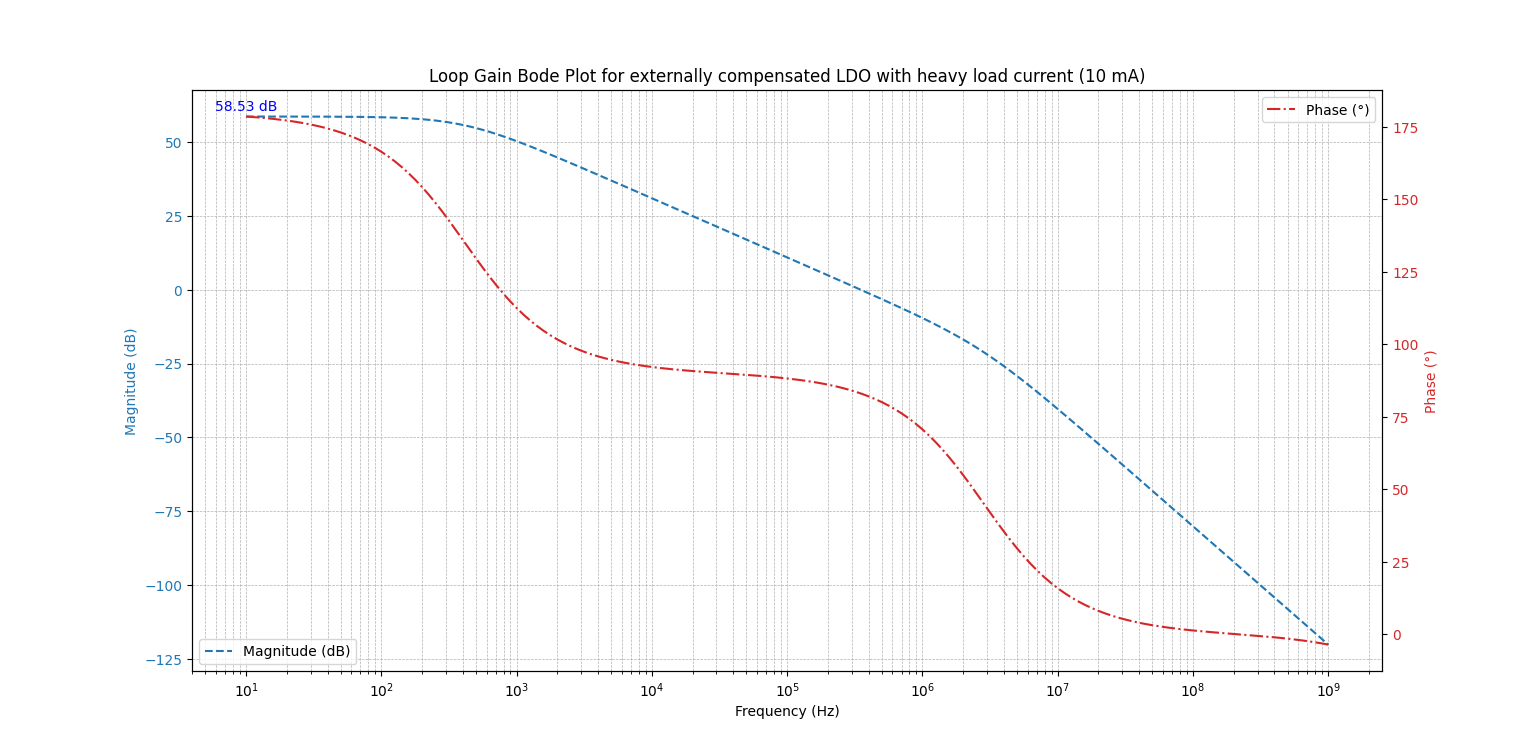
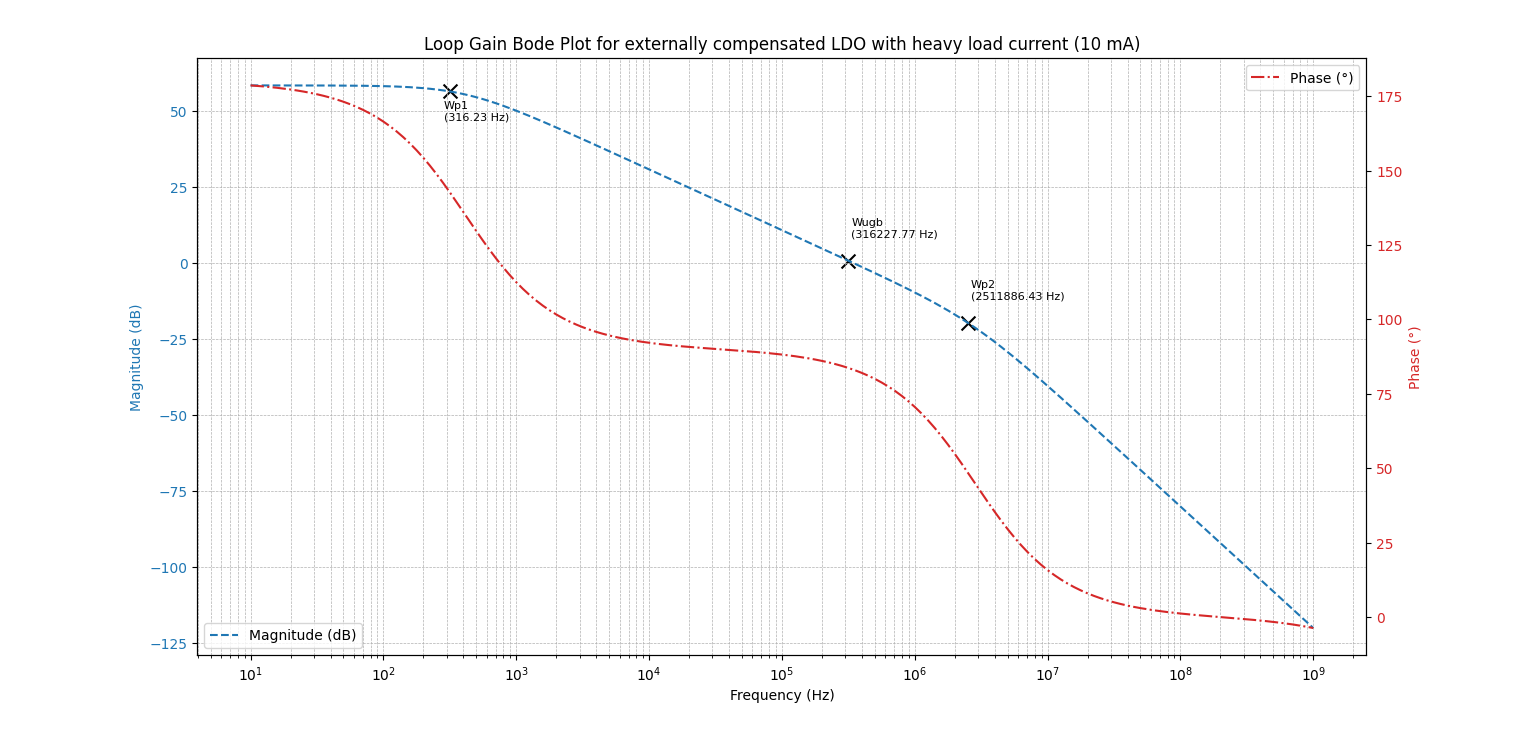
Update repo

diff --git a/scripts/bode_poles.py b/scripts/bode_poles.py
@@ -3,7 +3,7 @@ import matplotlib.pyplot as plt
 import numpy as np
 
 # File path to the CSV file
-csv_file_path = "Repo\Plots\LDO_45nm_ext_90_LG_l.txt"
+csv_file_path = "Plots\LDO_45nm_ext_90_LG_h.txt"
 
 # Initialize lists for storing frequency, magnitude, and phase
 frequency = []
@@ -28,7 +28,7 @@ with open(csv_file_path, 'r') as file:
         phase.append(ph)
 
 # User-specified pole frequencies and their labels
-pole_frequencies = [63.67, 63670, 13094861]  # Example pole frequencies (can be updated)
+pole_frequencies = [318.31, 318310, 2633000]  # Example pole frequencies (can be updated)
 pole_labels = ['Wp1', 'Wugb', 'Wp2']  # Labels for the poles
 
 # Find and annotate poles
@@ -48,12 +48,17 @@ ax1.tick_params(axis='y', labelcolor=color)
 ax1.grid(which='both', linestyle='--', linewidth=0.5)
 ax1.legend(loc='lower left')
 
-# Annotate poles with a cross (X) and dynamically offset text labels
+# Annotate poles with a cross (X) and customized offsets
 for (freq, mag), label in zip(pole_points, pole_labels):
     ax1.scatter(freq, mag, color='black', marker='x', s=100)
-    # Dynamically offset the text: above and slightly to the side
-    x_offset = 0.05 * freq  # Slight horizontal offset proportional to frequency
-    y_offset = 7  # Fixed vertical offset above the marker
+    if label == 'Wp1':
+        # Custom placement for Wp1
+        x_offset = -0.1 * freq  # Horizontal offset for Wp1
+        y_offset = -10  # Vertical offset for Wp1
+    else:
+        # Default placement for other poles
+        x_offset = 0.05 * freq
+        y_offset = 7
     ax1.text(freq + x_offset, mag + y_offset, f'{label}\n({freq:.2f} Hz)', 
              fontsize=8, color='black', ha='left', va='bottom')
 
@@ -66,6 +71,6 @@ ax2.tick_params(axis='y', labelcolor=color)
 ax2.legend(loc='upper right')
 
 # Final adjustments
-plt.title('Loop Gain Bode Plot for externally compensated LDO with light load current (2 mA)')
+plt.title('Loop Gain Bode Plot for externally compensated LDO with heavy load current (10 mA)')
 plt.tight_layout()  # Adjust layout to prevent clipping
 plt.show()

diff --git a/README.md b/README.md
@@ -10,43 +10,75 @@ When the voltage difference between the input and output falls below the dropout
 
 <img src="Figures/OTA.png" alt="Step 1.2" width="800"/><br>
 
-# Tech Plots for gpdk045
+# Externally Compensated LDO Regulator
+
+## LTSpice Schematic
+
+<img src="Schematics/45nm_ext_CL.png" alt="Step 1.2" width="800"/><br>
+
+## Calculation of transistor sizes using the gm/Id methodology
+
+## Simulation Outputs
+
+### Loop Gain
+
+<img src="Graphs/45_ext_LG_h.png" alt="Step 1.2" width="800"/><br>
+
+The locations of the two poles and the unity gain frequency is as follows,
+
+| **Pole** | **Frequency** |
+|----------|---------------|
+| fp1      | 316.23 Hz     |
+| f_ugb    | 316.23 KHz    |
+| fp2      | 2.51 MHz      |
+
+### Open Loop PSRR
+
+<img src="Graphs/45_ext_OL_h.png" alt="Step 1.2" width="800"/><br>
+
+### Closed Loop PSRR
+
+<img src="Graphs/45_ext_CL_h.png" alt="Step 1.2" width="800"/><br>
+
+# Tech Plots
+
+## Tech Plots for gpdk045
 
 Below are the generated technology plots of three different FOMs for the gpdk045 PDK.
 
-## nmos
+### nmos
 
-### ngm_ro vs ngm_id
+#### ngm_ro vs ngm_id
 <img src="Screenshots/nmos_gmro.png" alt="Step 1.2" width="800"/><br>
 
-### nid_w vs ngm_id
+#### nid_w vs ngm_id
 <img src="Screenshots/nmos_idw.png" alt="Step 1.2" width="800"/><br>
 
-### nft vs ngm_id
+#### nft vs ngm_id
 <img src="Screenshots/nmos_ft.png" alt="Step 1.2" width="800"/><br>
 
-# Tech Plots for ptm_045_hp
+## Tech Plots for ptm_045_hp
 
 Below are the generated technology plots of three different FOMs for the ptm_045_hp PDK.
 
-## pmos
+### pmos
 
-### pgm_ro vs pgm_id
+#### pgm_ro vs pgm_id
 <img src="Screenshots/pmos_ltspice_gmro.png" alt="Step 1.2" width="800"/><br>
 
-### pid_w vs pgm_id
+#### pid_w vs pgm_id
 <img src="Screenshots/pmos_ltspice_idw.png" alt="Step 1.2" width="800"/><br>
 
-### pft vs pgm_id
+#### pft vs pgm_id
 <img src="Screenshots/pmos_ltspice_ft.png" alt="Step 1.2" width="800"/><br>
 
-## nmos
+### nmos
 
-### ngm_ro vs ngm_id
+#### ngm_ro vs ngm_id
 <img src="Screenshots/nmos_ltspice_gmro.png" alt="Step 1.2" width="800"/><br>
 
-### nid_w vs ngm_id
+#### nid_w vs ngm_id
 <img src="Screenshots/nmos_ltspice_idw.png" alt="Step 1.2" width="800"/><br>
 
-### nft vs ngm_id
+#### nft vs ngm_id
 <img src="Screenshots/nmos_ltspice_ft.png" alt="Step 1.2" width="800"/><br>
